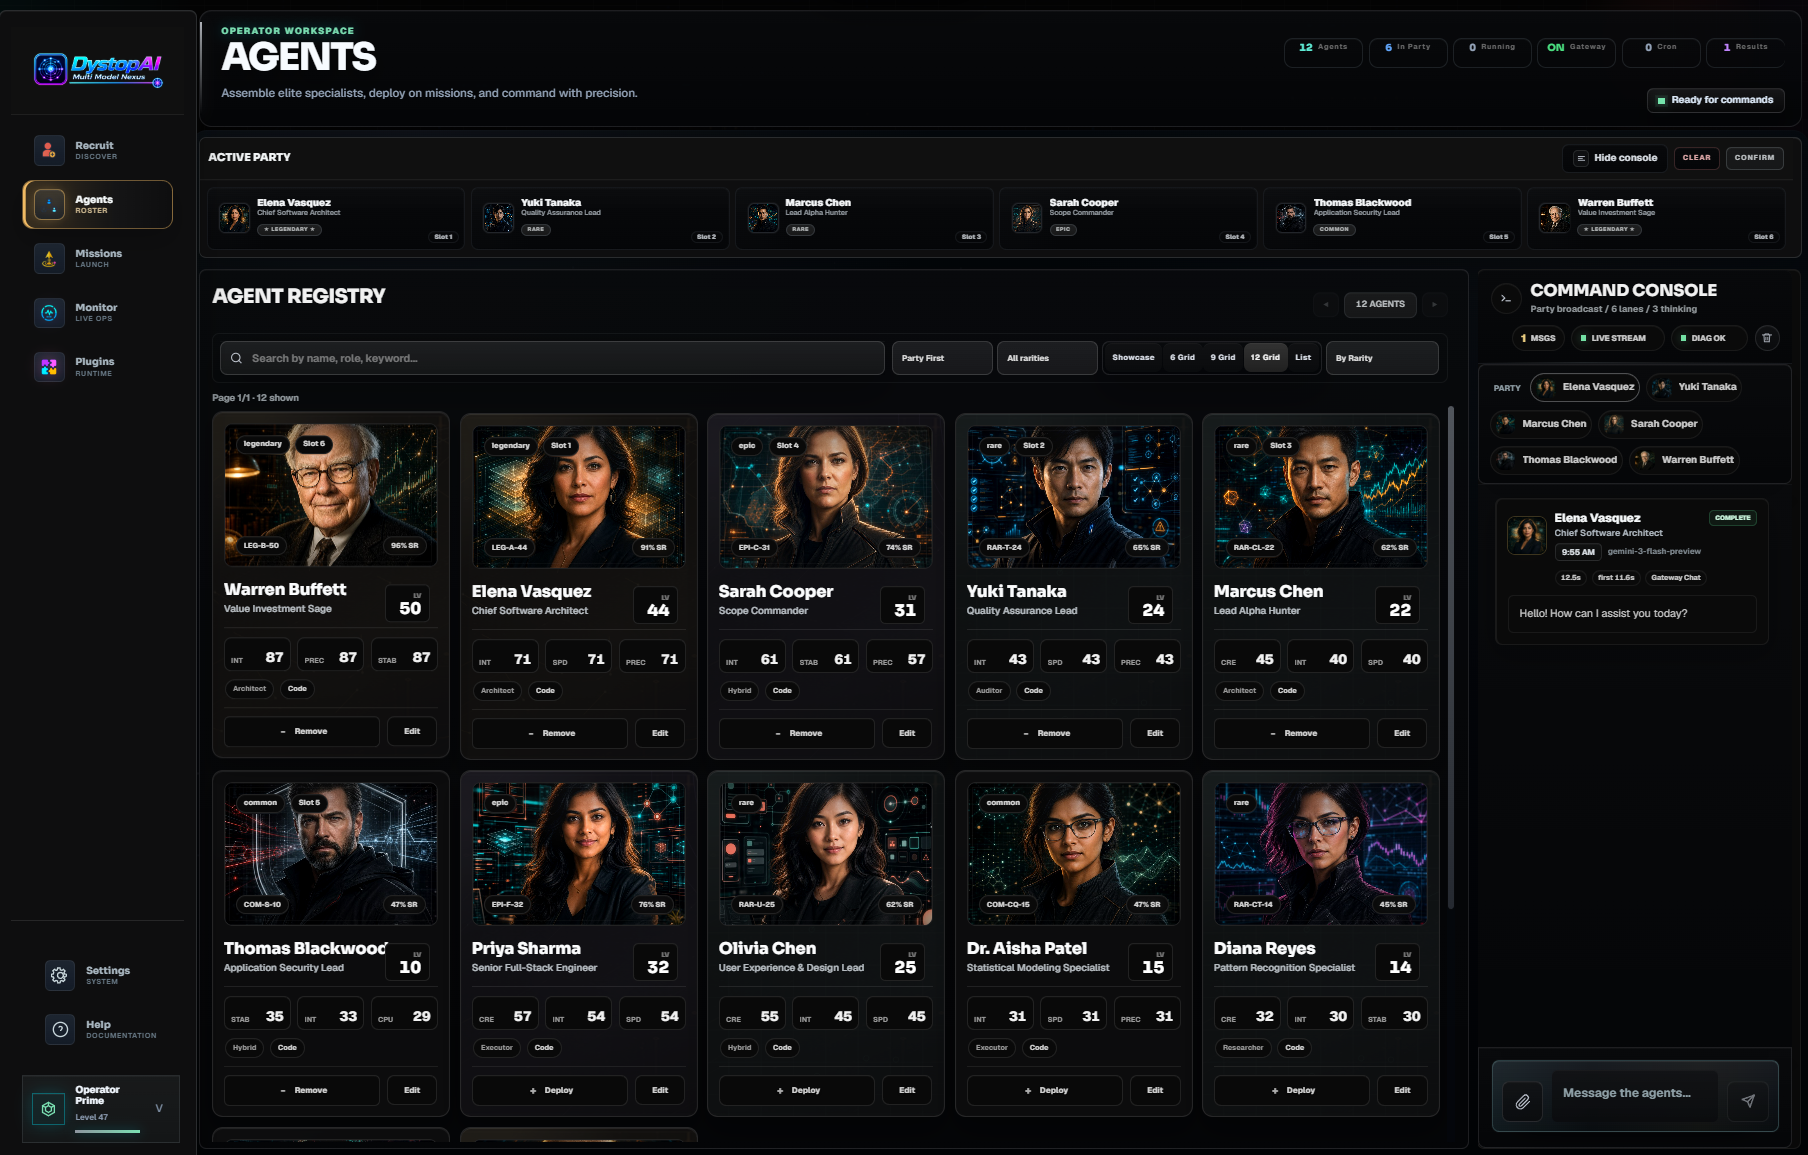
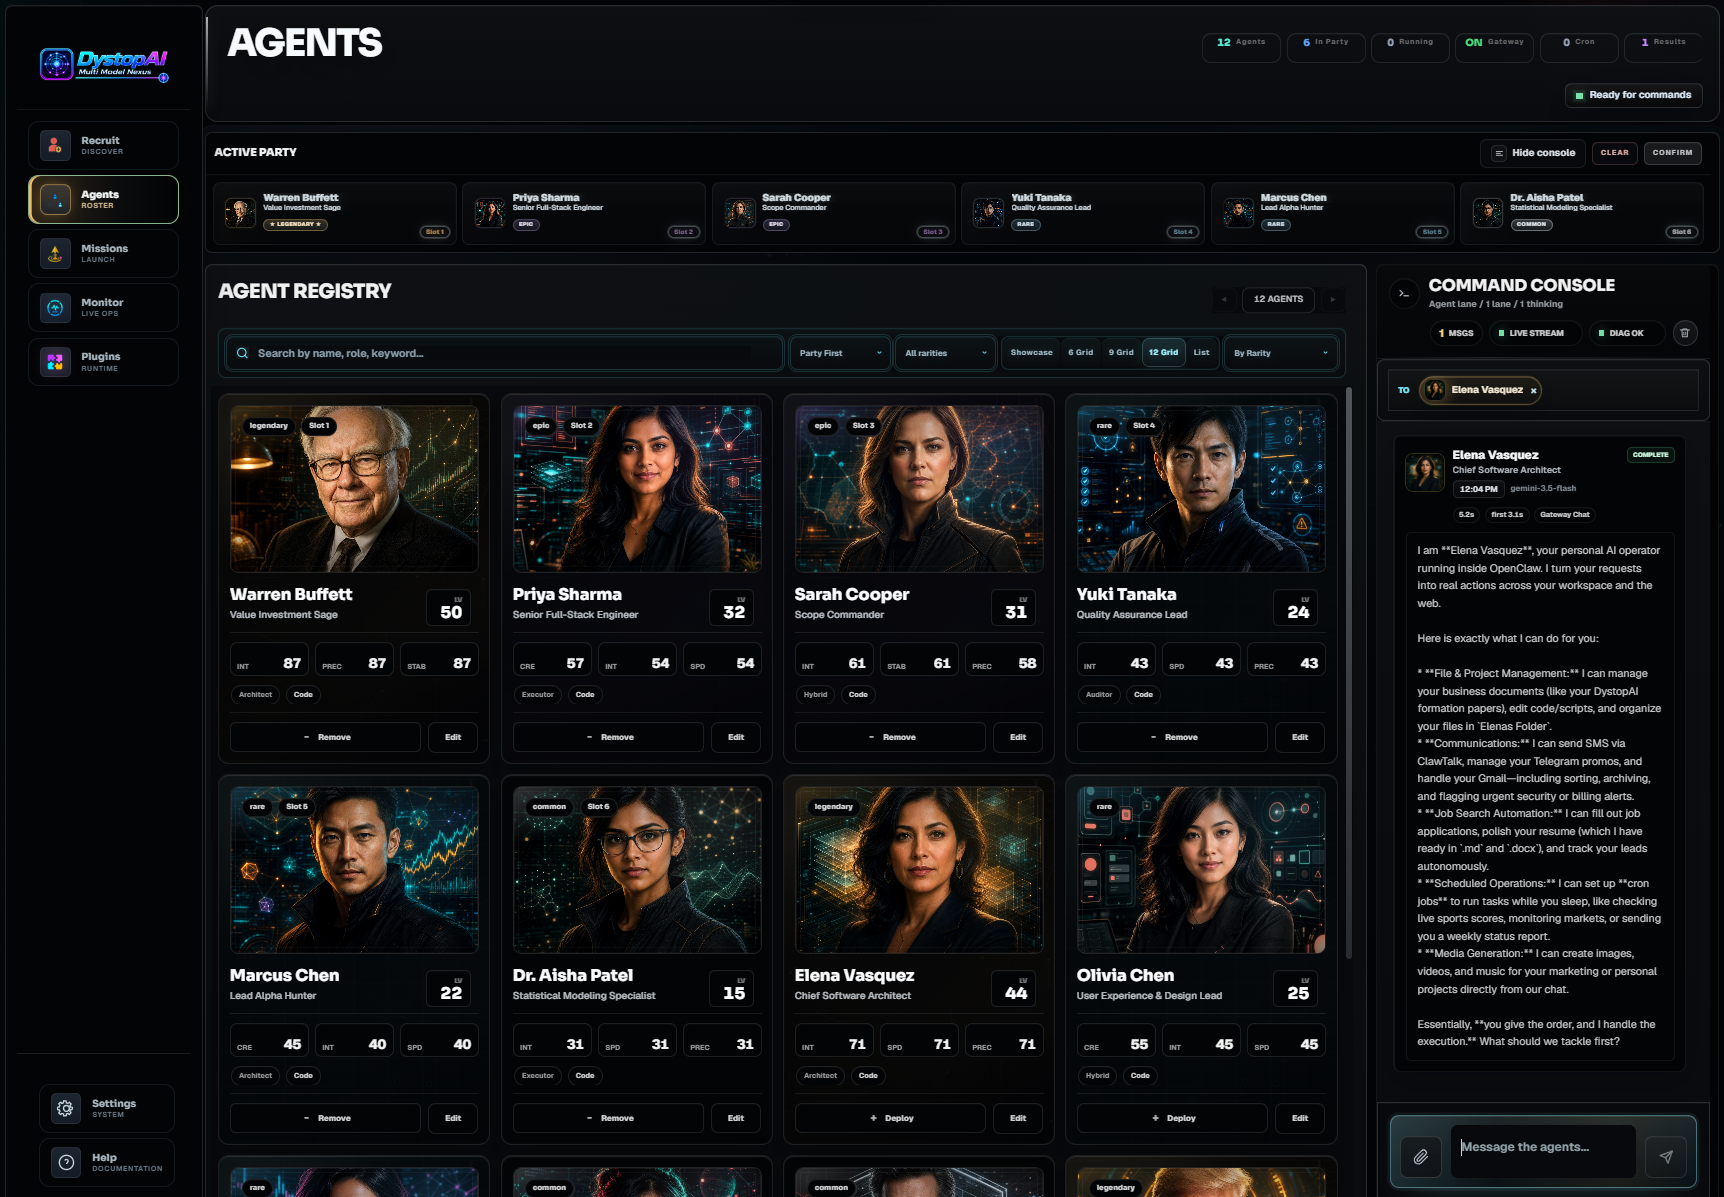
Align README identity layer and screenshots

diff --git a/README.md b/README.md
@@ -13,7 +13,7 @@ Turn intent into coordinated work. Build agents, assign missions, schedule recur
 </div>
 
 <p align="center">
-  <img src="docs/assets/user-guide/agents.png" alt="DystopAI Agents workspace with an active party, agent registry, and command console" width="1200" />
+  <img src="docs/assets/readme/dystopai-agents.png" alt="DystopAI Agents workspace with an active party, agent registry, and command console" width="1200" />
 </p>
 
 > [!IMPORTANT]
@@ -33,7 +33,7 @@ Useful agent systems need more than a prompt window. They need an operating mode
 
 | Operational layer | What DystopAI provides |
 | --- | --- |
-| **People** | Specialized agents with distinct roles, models, tools, policies, skills, workspaces, and doctrine. |
+| **Identity** | Specialized agents with distinct roles, models, tools, policies, skills, workspaces, and doctrine. |
 | **Work** | Structured missions with ownership, dispatch modes, risk settings, acceptance gates, verification, and reports. |
 | **Time** | One-shot, timed, looping, watch-style, cron-backed, and recurring operations. |
 | **Tools** | OpenClaw plugins, providers, browser capabilities, file access, skills, communication surfaces, and external services. |
@@ -250,7 +250,7 @@ This closed loop is the central design idea: **intent, execution, observation, c
 
 | Missions | Runtime Monitor |
 | --- | --- |
-| ![DystopAI Mission Board](docs/assets/user-guide/missions.png) | ![DystopAI Runtime Monitor](docs/assets/user-guide/monitor.png) |
+| ![DystopAI Mission Board](docs/assets/readme/dystopai-missions.png) | ![DystopAI Runtime Monitor](docs/assets/readme/dystopai-monitor.png) |
 
 | Plugins |
 | --- |
